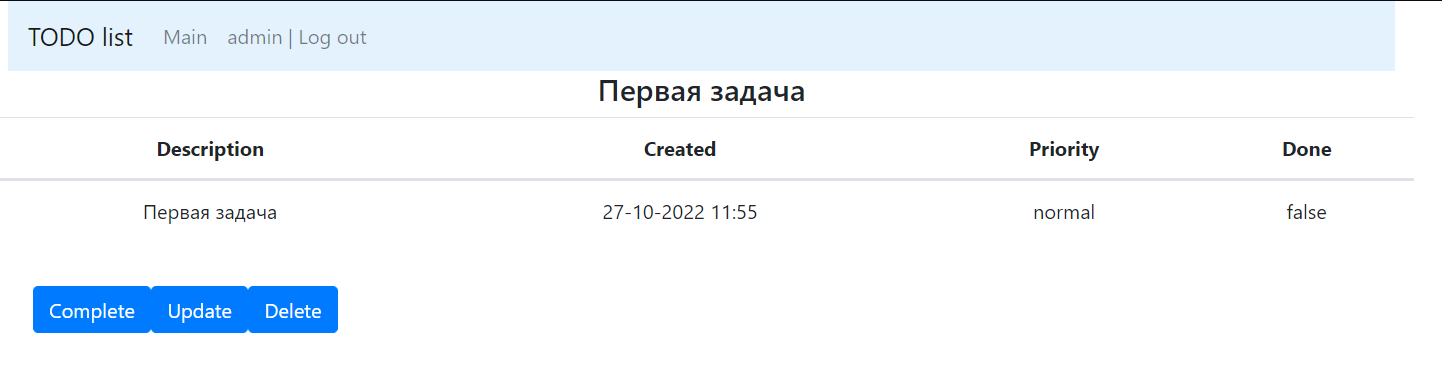
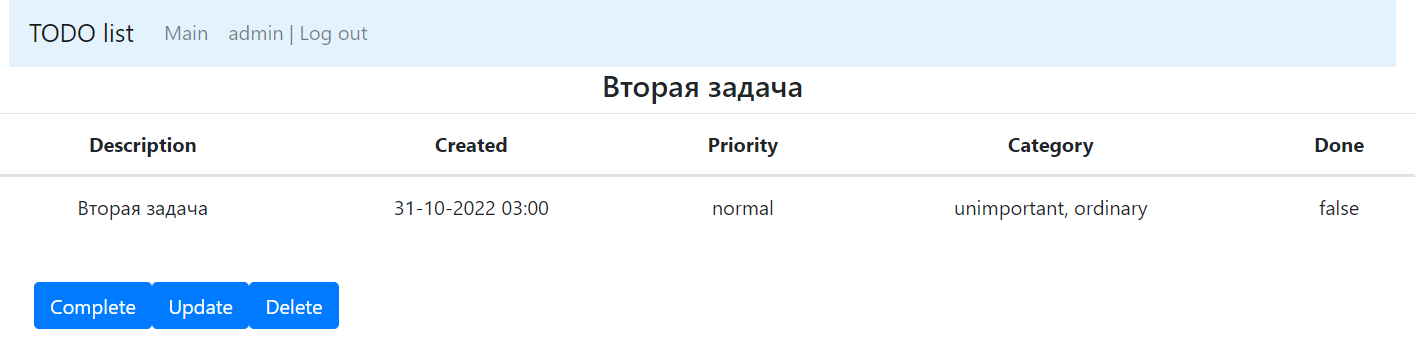
Категории в TODO List

diff --git a/src/main/resources/templates/updateTask.html b/src/main/resources/templates/updateTask.html
@@ -46,6 +46,7 @@
             <div class="card-body">
                 <form th:action="@{/updateTask}" method="POST" th:object="${task}" enctype="multipart/form-data">
                     <input type="hidden" name="id" th:field="*{id}"/>
+                    <input type="hidden" name="created" th:field="*{created}"/>
                     <div class="form-group">
                         <label for="name">Name</label>
                         <input type="text" class="form-control" name="name" id="name" th:field="*{name}">
@@ -58,6 +59,12 @@
                         <label for="priority.id">Priority</label>
                         <select class="form-control" id="priority.id" name="priority.id">
                             <option th:each="priority : ${priorities}" th:value="${priority.id}" th:text="${priority.name}" th:selected="${priority.id==(task.priority != null ? task.priority.id : 0)}"></option>
+                        </select>
+                    </div>
+                    <div class="form-group">
+                        <label for="categoryId">Category</label>
+                        <select class="form-control" id="categoryId" name="categoryId" multiple="multiple">
+                            <option th:each="category : ${categories}" th:value="${category.id}" th:text="${category.name}" th:selected="${task.categories.indexOf(category) != -1}"></option>
                         </select>
                     </div>
                     <button type="submit" class="btn btn-primary">Update</button>

diff --git a/src/main/resources/templates/task.html b/src/main/resources/templates/task.html
@@ -58,6 +58,7 @@
                 <th scope="col" class="text-center">Description</th>
                 <th scope="col" class="text-center">Created</th>
                 <th scope="col" class="text-center">Priority</th>
+                <th scope="col" class="text-center">Category</th>
                 <th scope="col" class="text-center">Done</th>
             </tr>
             </thead>
@@ -65,6 +66,7 @@
             <td th:text="${task.description}" class="text-center"/>
             <td th:text="${#temporals.format(task.created, 'dd-MM-yyyy HH:mm')}" class="text-center"/>
             <td th:text="${task.priority != null} ? ${task.priority.name} : 'null value!'" class="text-center"/>
+            <td th:text="${#strings.listJoin(task.categories,', ')}"  class="text-center"/>
             <td th:text="${task.done}" class="text-center"/>
             </tbody>
         </table>

diff --git a/src/main/resources/templates/index.html b/src/main/resources/templates/index.html
@@ -81,6 +81,7 @@
             <th scope="col" class="text-center">Created</th>
             <th scope="col" class="text-center">User</th>
             <th scope="col" class="text-center">Priority</th>
+            <th scope="col" class="text-center">Category</th>
             <th scope="col" class="text-center">Done</th>
         </tr>
         </thead>
@@ -93,6 +94,7 @@
             <td th:text="${#temporals.format(task.created, 'dd-MM-yyyy HH:mm')}" class="text-center"/>
             <td th:text="${task.user != null} ? ${task.user.name} : 'null value!'" class="text-center"/>
             <td th:text="${task.priority != null} ? ${task.priority.name} : 'null value!'" class="text-center"/>
+            <td th:text="${#strings.listJoin(task.categories,', ')}"  class="text-center"/>
             <td th:text="${task.done}" class="text-center"/>
         </tr>
         </tbody>

diff --git a/src/main/java/ru/job4j/todo/store/TaskStore.java b/src/main/java/ru/job4j/todo/store/TaskStore.java
@@ -3,13 +3,11 @@ package ru.job4j.todo.store;
 import lombok.AllArgsConstructor;
 import net.jcip.annotations.ThreadSafe;
 import org.springframework.stereotype.Repository;
-import ru.job4j.todo.model.Category;
 import ru.job4j.todo.model.Task;
 import ru.job4j.todo.model.User;
 
 import java.util.List;
 import java.util.Map;
-import java.util.stream.Collectors;
 
 @ThreadSafe
 @Repository
@@ -18,21 +16,22 @@ public class TaskStore {
     private final CrudRepository crudRepository;
 
     private final static String SELECT = """
-                                         SELECT t FROM Task t
-                                         JOIN FETCH t.priority
+                                         SELECT DISTINCT t FROM Task t
+                                         LEFT JOIN FETCH t.priority
+                                         LEFT JOIN FETCH t.categories
                                          WHERE t.user = :fUser
                                          """;
     private final static String UPDATE = "UPDATE Task %s WHERE id = :fId";
     private final static String DELETE = "DELETE Task WHERE id = :fId";
     private final static String SELECT_TRUE_DONE = String.format("%s AND t.done = true", SELECT);
     private final static String SELECT_FALSE_DONE = String.format("%s AND t.done = false", SELECT);
-    private final static String SELECT_BY_ID = "SELECT t FROM Task t JOIN FETCH t.priority WHERE t.id = :fId";
+    private final static String SELECT_BY_ID = """
+                                               SELECT DISTINCT t FROM Task t
+                                               LEFT JOIN FETCH t.priority
+                                               LEFT JOIN FETCH t.categories
+                                               WHERE t.id = :fId
+                                               """;
     private final static String UPDATE_COMPLETE = String.format(UPDATE, "SET done = :fDone");
-    private final static String UPDATE_NAME = String.format(UPDATE, """
-                                                       SET name = :fName,
-                                                       description = :fDescription,
-                                                       priority = :fPriority
-                                                       """);
 
     public void add(Task task) {
         crudRepository.run(session -> session.save(task));
@@ -73,11 +72,7 @@ public class TaskStore {
     public boolean update(Task task) {
         boolean rsl = true;
         try {
-            crudRepository.run(UPDATE_NAME,
-                    Map.of("fName", task.getName(),
-                            "fDescription", task.getDescription(),
-                            "fPriority", task.getPriority(),
-                            "fId", task.getId()));
+            crudRepository.run(session -> session.merge(task));
         } catch (Exception e) {
             rsl = false;
         }

diff --git a/src/main/java/ru/job4j/todo/controller/TaskController.java b/src/main/java/ru/job4j/todo/controller/TaskController.java
@@ -97,22 +97,30 @@ public class TaskController {
     }
 
     @GetMapping("/update/{taskID}")
-    public String update(Model model, HttpSession session, @PathVariable("taskID") int taskID) {
+    public String update(Model model, HttpSession session,
+                         @PathVariable("taskID") int taskID) {
         model.addAttribute("task", taskService.findById(taskID));
         model.addAttribute("user", UserSession.user(session));
         model.addAttribute("priorities", priorityService.findAll());
+        model.addAttribute("categories", categoryService.findAll());
         return "updateTask";
     }
 
     @PostMapping("/updateTask")
-    public String updateTask(Model model, HttpSession session, @RequestParam("priority.id") int priorityId,
-                             @ModelAttribute Task task) {
+    public String updateTask(Model model, HttpSession session,
+                             @RequestParam("priority.id") int priorityId,
+                             @ModelAttribute Task task,
+                             @RequestParam(name = "categoryId", required = false)
+                                 List<Integer> categoriesId) {
+        var currentUser = UserSession.user(session);
         task.setPriority(priorityService.findById(priorityId));
+        task.setCategories(categoryService.findByIds(categoriesId));
+        task.setUser(currentUser);
         var rsl = taskService.update(task);
         if (rsl) {
             return String.format("redirect:/task/%s", task.getId());
         }
-        model.addAttribute("user", UserSession.user(session));
+        model.addAttribute("user", currentUser);
         model.addAttribute("message", "ERROR");
         return "condition";
     }

diff --git a/src/main/java/ru/job4j/todo/model/Category.java b/src/main/java/ru/job4j/todo/model/Category.java
@@ -15,4 +15,9 @@ public class Category {
     @EqualsAndHashCode.Include
     private int id;
     private String name;
+
+    @Override
+    public String toString() {
+        return name;
+    }
 }

diff --git a/README.md b/README.md
@@ -49,6 +49,6 @@ mvn spring-boot:run
 9. _Окно подробно (задача выполнена):_
 ![img.png](src/img/CompletedTask.png)
 10. _Окно подробно (задача не выполнена):_
-![img.png](src/img/NewTask.png)
+![img_1.png](src/img/NewTask.png)
 11. _Окно редактирования задачи:_
 ![img.png](src/img/UpdateTask.png)
